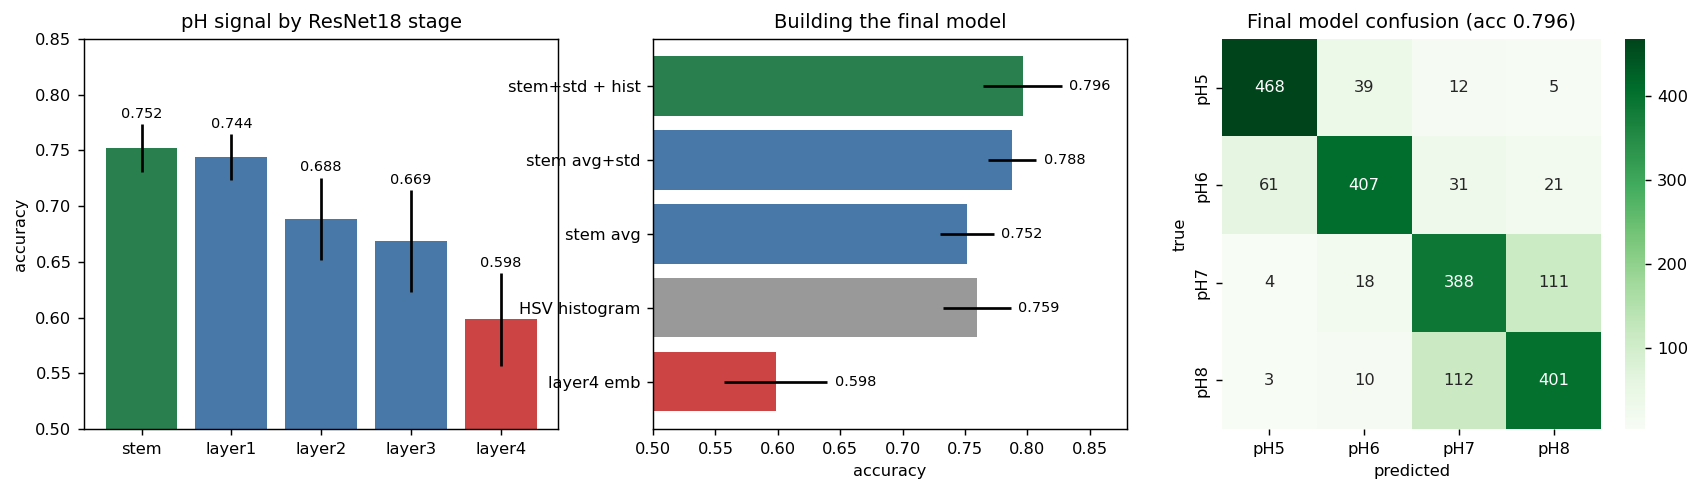
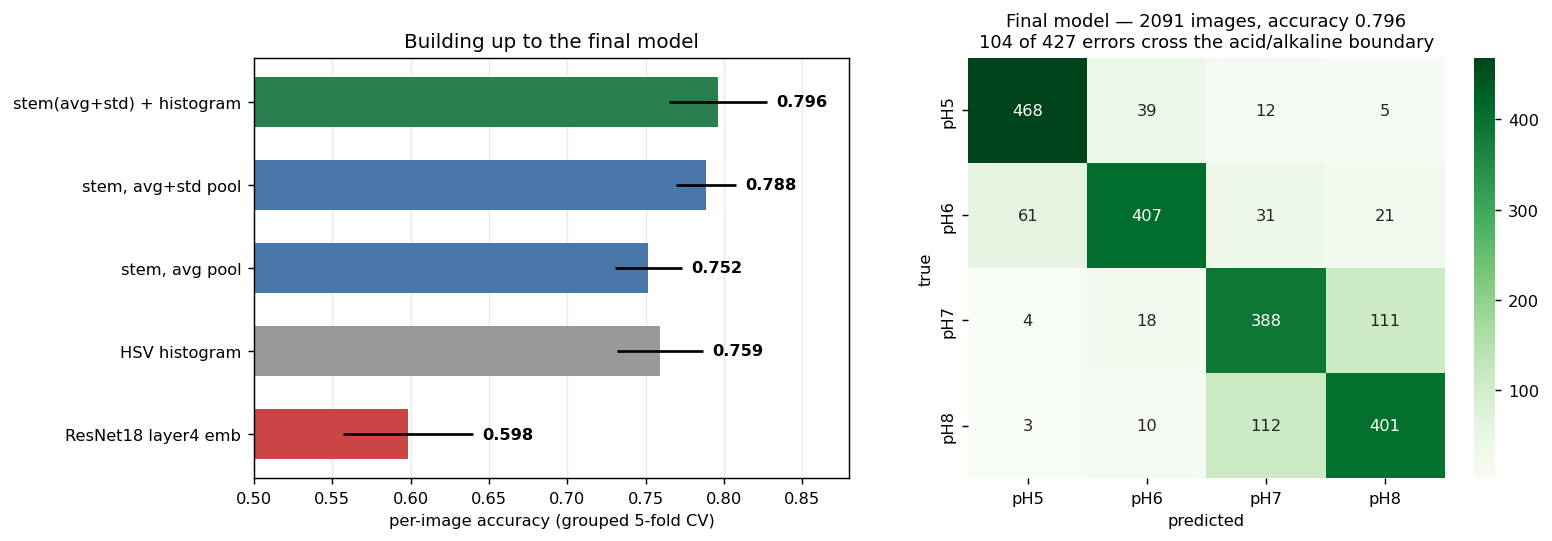
Split the transfer learning figure into stage analysis and results

diff --git a/transfer_learning/README.md b/transfer_learning/README.md
@@ -21,6 +21,8 @@ The notebook measures this stage by stage. Global-average-pooled features from
 each ResNet18 stage, frozen ImageNet weights, the same Random Forest fitted to
 each, grouped 5-fold CV:
 
+![accuracy by ResNet18 stage](../figures/resnet_stages.png)
+
 | Stage | dim | per-image accuracy |
 |---|---|---|
 | **stem** (`conv1`+bn+relu+pool) | 64 | **0.752 ± 0.021** |
@@ -73,9 +75,9 @@ quarter the dimensionality — the variation matters, its location does not.
 
 ![transfer learning results](../figures/transfer_learning.png)
 
-**Left** — pH accuracy by ResNet18 stage, falling monotonically with depth.
-**Centre** — each feature set built up to the final model. **Right** — the final
-model's confusion matrix pooled across folds.
+**Left** — each feature set built up to the final model. **Right** — the final
+model's confusion matrix, pooled across the 5 folds and therefore covering every
+one of the 2,091 images as a held-out prediction.
 
 ## Final architecture
 
